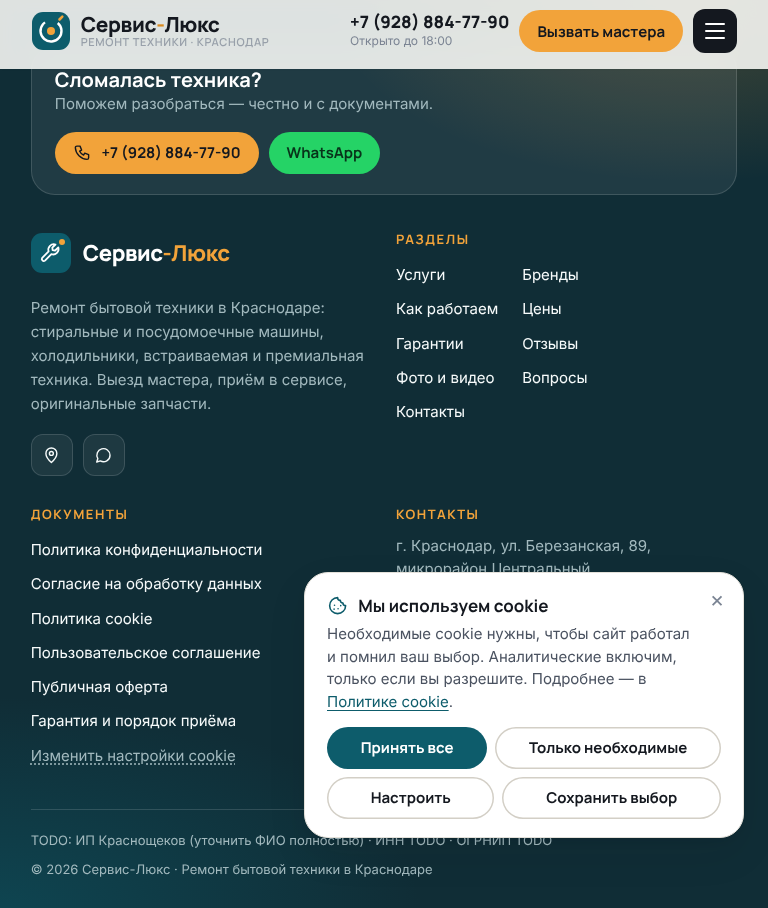
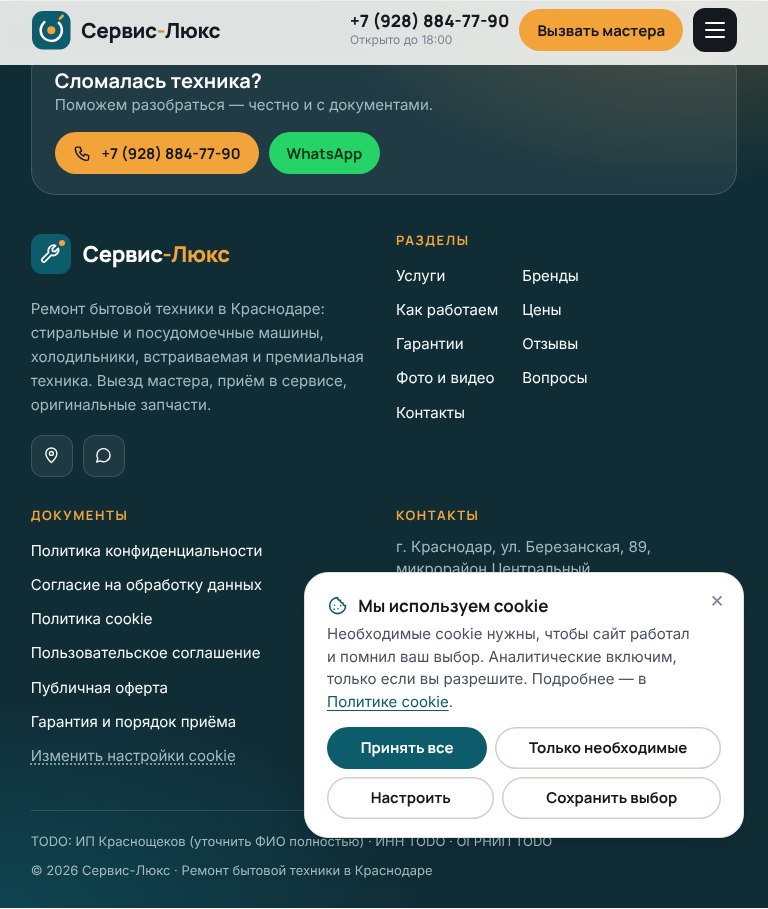
Промежуточное состояние секций в работе
Claude-Session: https://claude.ai/code/session_01MjrRxoxtDoTSH5vWoqp8Aa

diff --git a/index.html b/index.html
@@ -1154,6 +1154,198 @@
   </div>
 </section>
 
+<!-- ===== 22 · Наши обязательства (#guarantees) · владелец: Ипполит ===== -->
+<section class="section guar" id="guarantees" aria-labelledby="guar-title">
+  <div class="container">
+    <header class="section__head section__head--center guar__head reveal">
+      <span class="eyebrow">Наши обязательства</span>
+      <h2 id="guar-title">Семь обещаний, которые можно проверить</h2>
+      <p class="lead">Не&nbsp;«качество и&nbsp;надёжность», а&nbsp;конкретные действия на&nbsp;каждом этапе. Если что-то из&nbsp;этого не&nbsp;выполнено, напишите нам в&nbsp;WhatsApp, и&nbsp;мы разберёмся.</p>
+    </header>
+
+    <ol class="guar__list">
+      <li class="guar__item reveal">
+        <span class="guar__num" aria-hidden="true">01</span>
+        <span class="guar__ico"><svg class="icon" aria-hidden="true"><use href="#sl-i-calendar"/></svg></span>
+        <h3>Срок ремонта — в&nbsp;акте</h3>
+        <p>Ориентировочный срок пишем в&nbsp;акте приёма. Если он меняется, сообщаем причину и&nbsp;новую дату до&nbsp;того, как вы спросите.</p>
+      </li>
+      <li class="guar__item reveal" style="--d:.05s">
+        <span class="guar__num" aria-hidden="true">02</span>
+        <span class="guar__ico"><svg class="icon" aria-hidden="true"><use href="#sl-i-bell"/></svg></span>
+        <h3>Статус в&nbsp;WhatsApp на&nbsp;каждом этапе</h3>
+        <p>Принято, диагностика готова, запчасть заказана, готово к&nbsp;выдаче. Не&nbsp;нужно звонить и&nbsp;уточнять.</p>
+      </li>
+      <li class="guar__item reveal" style="--d:.1s">
+        <span class="guar__num" aria-hidden="true">03</span>
+        <span class="guar__ico"><svg class="icon" aria-hidden="true"><use href="#sl-i-clock"/></svg></span>
+        <h3>Ответ менеджера в&nbsp;течение N&nbsp;часов</h3>
+        <!-- TODO: подтвердить с владельцем норматив ответа менеджера (N часов в рабочее время) -->
+        <p>В&nbsp;рабочее время: Пн–Пт 9–18, Сб 10–16. Сообщение, пришедшее вечером, разбираем первым утром.</p>
+      </li>
+      <li class="guar__item reveal" style="--d:.15s">
+        <span class="guar__num" aria-hidden="true">04</span>
+        <span class="guar__ico"><svg class="icon" aria-hidden="true"><use href="#sl-i-smile"/></svg></span>
+        <h3>Вежливо и&nbsp;без внезапных отмен</h3>
+        <!-- TODO: подтвердить регламент общения и правило «не отменяем заявку без письменного предупреждения» -->
+        <p>Не&nbsp;дозвонились — напишем в&nbsp;WhatsApp, а&nbsp;не&nbsp;аннулируем заявку. Перенос только по&nbsp;согласованию с&nbsp;вами.</p>
+      </li>
+      <li class="guar__item reveal" style="--d:.2s">
+        <span class="guar__num" aria-hidden="true">05</span>
+        <span class="guar__ico"><svg class="icon" aria-hidden="true"><use href="#sl-i-camera"/></svg></span>
+        <h3>Фото и&nbsp;видео при&nbsp;приёме</h3>
+        <p>Фиксируем внешний вид, комплектацию и&nbsp;повреждения до&nbsp;ремонта. Копия у&nbsp;вас в&nbsp;переписке.</p>
+      </li>
+      <li class="guar__item reveal" style="--d:.25s">
+        <span class="guar__num" aria-hidden="true">06</span>
+        <span class="guar__ico"><svg class="icon" aria-hidden="true"><use href="#sl-i-ruble"/></svg></span>
+        <h3>Смета до&nbsp;начала работ</h3>
+        <p>Работа и&nbsp;каждая запчасть с&nbsp;артикулом отдельной строкой. Без&nbsp;вашего «ОК» не&nbsp;начинаем и&nbsp;сумму не&nbsp;меняем.</p>
+      </li>
+      <li class="guar__item reveal" style="--d:.3s">
+        <span class="guar__num" aria-hidden="true">07</span>
+        <span class="guar__ico"><svg class="icon" aria-hidden="true"><use href="#sl-i-receipt"/></svg></span>
+        <h3>Документы на&nbsp;руки</h3>
+        <p>Акт приёма, акт выполненных работ, кассовый чек и&nbsp;гарантийный талон. Всё, что нужно, если понадобится гарантия.</p>
+      </li>
+      <li class="guar__item guar__item--warranty reveal" style="--d:.35s">
+        <span class="guar__ico"><svg class="icon" aria-hidden="true"><use href="#sl-i-shield"/></svg></span>
+        <h3>Гарантия на&nbsp;ремонт и&nbsp;запчасти</h3>
+        <!-- TODO: подтвердить сроки гарантии на работу и на установленные запчасти -->
+        <p class="guar__warranty-terms"><span><b>N&nbsp;мес.</b> на&nbsp;работу</span><span><b>N&nbsp;мес.</b> на&nbsp;запчасти</span></p>
+        <a class="guar__link" href="legal/warranty.html">Условия гарантии и&nbsp;приёма<svg class="icon" aria-hidden="true"><use href="#sl-i-arrow"/></svg></a>
+      </li>
+    </ol>
+
+    <!-- Гарантийный ремонт по гарантии производителя -->
+    <div class="guar__factory reveal">
+      <div class="guar__factory-ico"><svg class="icon" aria-hidden="true"><use href="#sl-i-doc"/></svg></div>
+      <div>
+        <h3>Ремонт по&nbsp;гарантии производителя: честно о&nbsp;сроках</h3>
+        <!-- TODO: сверить формулировку с юристом (Феофан) и подтвердить периодичность статусов по гарантийным ремонтам -->
+        <p>Самое долгое в&nbsp;гарантийном ремонте — поставка детали от&nbsp;производителя. Поэтому срок поставки сообщаем письменно сразу после диагностики, а&nbsp;пока деталь в&nbsp;пути, присылаем статус. По&nbsp;закону «О&nbsp;защите прав потребителей» (ст.&nbsp;20) срок устранения недостатков по&nbsp;гарантии не&nbsp;может превышать 45&nbsp;дней. Если он под угрозой, заранее предупреждаем и&nbsp;объясняем ваши права и&nbsp;варианты.</p>
+      </div>
+    </div>
+
+    <!-- Мы слышим отзывы -->
+    <div class="guar__heard">
+      <div class="guar__heard-head reveal">
+        <span class="eyebrow">Мы слышим отзывы</span>
+        <h3>Что нам писали и&nbsp;что мы делаем</h3>
+        <p>Мы читаем все отзывы на&nbsp;Яндекс Картах, и&nbsp;хорошие, и&nbsp;плохие. Из&nbsp;критики выросли правила, которые выше.</p>
+      </div>
+      <table class="guar__table guar__table--heard reveal">
+        <caption class="sr-only">Частые претензии в отзывах и что мы делаем</caption>
+        <thead><tr><th scope="col">Частая претензия</th><th scope="col">Что мы делаем</th></tr></thead>
+        <tbody>
+          <tr>
+            <th scope="row" data-label="Претензия">«Заплатили за&nbsp;диагностику, а&nbsp;ремонта не&nbsp;было»</th>
+            <td data-label="Что делаем">Цену диагностики называем до&nbsp;выезда. При&nbsp;согласованном ремонте засчитываем её в&nbsp;стоимость, а&nbsp;при&nbsp;отказе у&nbsp;вас остаются причина поломки и&nbsp;смета.</td>
+          </tr>
+          <tr>
+            <th scope="row" data-label="Претензия">«Неделями никто не&nbsp;звонил»</th>
+            <td data-label="Что делаем">Статус в&nbsp;WhatsApp на&nbsp;каждом этапе. Если запчасть задерживается, пишем первыми и&nbsp;сразу называем новый срок.</td>
+          </tr>
+          <tr>
+            <th scope="row" data-label="Претензия">«Гарантийный ремонт затянулся»</th>
+            <td data-label="Что делаем">Срок поставки детали — письменно, статусы — пока ждём. Держим срок в&nbsp;рамках закона и&nbsp;предупреждаем заранее, если он под&nbsp;угрозой.</td>
+          </tr>
+          <tr>
+            <th scope="row" data-label="Претензия">«Отменили заявку из-за&nbsp;пропущенного звонка»</th>
+            <td data-label="Что делаем">Время визита подтверждаем в&nbsp;WhatsApp. Не&nbsp;дозвонились — пишем сообщение, а&nbsp;не&nbsp;отменяем выезд.</td>
+          </tr>
+          <tr>
+            <th scope="row" data-label="Претензия">«Запчасть дороже, чем на&nbsp;маркетплейсе»</th>
+            <td data-label="Что делаем">В&nbsp;смете есть артикул каждой детали, и&nbsp;цену можно проверить до&nbsp;заказа. Неисправность мастер показывает до&nbsp;замены.</td>
+          </tr>
+          <tr>
+            <th scope="row" data-label="Претензия">«Сказали, что техника была грязной или повреждённой»</th>
+            <td data-label="Что делаем">Фото и&nbsp;видео при&nbsp;приёме и&nbsp;акт с&nbsp;описанием состояния. Копии у&nbsp;вас, поэтому спорить не&nbsp;о&nbsp;чем.</td>
+          </tr>
+        </tbody>
+      </table>
+    </div>
+
+    <!-- Сравнение -->
+    <div class="guar__compare">
+      <div class="guar__heard-head reveal">
+        <span class="eyebrow">Сравнение</span>
+        <h3>Сервис или частный мастер по&nbsp;объявлению</h3>
+        <p>Среди частных мастеров есть сильные специалисты. Разница не&nbsp;в&nbsp;людях, а&nbsp;в&nbsp;том, что остаётся у&nbsp;вас на&nbsp;руках, если что-то пойдёт не&nbsp;так.</p>
+      </div>
+      <div class="guar__compare-wrap reveal">
+        <table class="guar__table guar__table--compare">
+          <caption class="sr-only">Сравнение: Сервис-Люкс и частный мастер по объявлению</caption>
+          <thead>
+            <tr><th scope="col"><span class="sr-only">Критерий</span></th><th scope="col" class="guar__col-us">Сервис-Люкс</th><th scope="col">Частный мастер</th></tr>
+          </thead>
+          <tbody>
+            <tr>
+              <th scope="row">Премиум и&nbsp;встраиваемая техника</th>
+              <td class="guar__col-us" data-label="Сервис-Люкс"><svg class="icon guar__yes" aria-hidden="true"><use href="#sl-i-check"/></svg>Miele, Liebherr, V-Zug, Smeg, Bosch и&nbsp;другие; можно привезти в&nbsp;сервис</td>
+              <td data-label="Частный мастер">Зависит от&nbsp;опыта конкретного мастера</td>
+            </tr>
+            <tr>
+              <th scope="row">Гарантия</th>
+              <!-- TODO: срок гарантии -->
+              <td class="guar__col-us" data-label="Сервис-Люкс"><svg class="icon guar__yes" aria-hidden="true"><use href="#sl-i-check"/></svg>Гарантийный талон на&nbsp;работу и&nbsp;запчасти</td>
+              <td data-label="Частный мастер">Часто устная договорённость</td>
+            </tr>
+            <tr>
+              <th scope="row">Документы</th>
+              <td class="guar__col-us" data-label="Сервис-Люкс"><svg class="icon guar__yes" aria-hidden="true"><use href="#sl-i-check"/></svg>Акт приёма, смета, акт работ, кассовый чек</td>
+              <td data-label="Частный мастер">Не&nbsp;всегда</td>
+            </tr>
+            <tr>
+              <th scope="row">Запчасти</th>
+              <td class="guar__col-us" data-label="Сервис-Люкс"><svg class="icon guar__yes" aria-hidden="true"><use href="#sl-i-check"/></svg>Оригинал под заказ, артикул в&nbsp;смете</td>
+              <td data-label="Частный мастер">Оригинал или аналог — стоит уточнять</td>
+            </tr>
+            <tr>
+              <th scope="row">Состояние техники при&nbsp;приёме</th>
+              <td class="guar__col-us" data-label="Сервис-Люкс"><svg class="icon guar__yes" aria-hidden="true"><use href="#sl-i-check"/></svg>Фото, видео и&nbsp;акт</td>
+              <td data-label="Частный мастер">Как договоритесь</td>
+            </tr>
+            <tr>
+              <th scope="row">Если что-то пошло не&nbsp;так</th>
+              <td class="guar__col-us" data-label="Сервис-Люкс"><svg class="icon guar__yes" aria-hidden="true"><use href="#sl-i-check"/></svg>Адрес сервиса, документы и&nbsp;публичные отзывы</td>
+              <td data-label="Частный мастер">Личный телефон мастера</td>
+            </tr>
+            <tr>
+              <th scope="row">Цена</th>
+              <td class="guar__col-us" data-label="Сервис-Люкс">Может быть выше: в&nbsp;неё входят гарантия, документы и&nbsp;оригинальные детали</td>
+              <td data-label="Частный мастер">Часто ниже</td>
+            </tr>
+          </tbody>
+        </table>
+      </div>
+      <blockquote class="guar__quote reveal">
+        <p>«В&nbsp;Сервис-Люкс работают очень опытные мастера. Устанавливают и&nbsp;ремонтируют любую премиальную технику: Miele, Liebherr, V-Zug, Smeg».</p>
+        <footer>Мария&nbsp;Л., отзыв на&nbsp;<a href="https://yandex.ru/maps/org/servis_lyuks/1041626760/reviews/" target="_blank" rel="noopener">Яндекс Картах</a>, 5★</footer>
+      </blockquote>
+    </div>
+
+    <!-- Финальный CTA -->
+    <div class="guar__cta reveal">
+      <div class="guar__cta-text">
+        <h3>Расскажите, что сломалось. Цену диагностики назовём до&nbsp;визита</h3>
+        <p>Время подтвердим в&nbsp;WhatsApp, состояние техники зафиксируем, ремонт начнём только после вашего «ОК».</p>
+        <ul class="guar__cta-points">
+          <li><svg class="icon" aria-hidden="true"><use href="#sl-i-check"/></svg>Смета до&nbsp;работ</li>
+          <li><svg class="icon" aria-hidden="true"><use href="#sl-i-check"/></svg>Статусы в&nbsp;WhatsApp</li>
+          <li><svg class="icon" aria-hidden="true"><use href="#sl-i-check"/></svg>Акт, чек и&nbsp;гарантия</li>
+        </ul>
+      </div>
+      <div class="guar__cta-actions">
+        <button class="btn btn--accent btn--block" type="button" data-modal-open="lead-modal">Вызвать мастера</button>
+        <a class="btn btn--wa btn--block" href="https://wa.me/79180606918?text=%D0%9E%D0%B1%D1%80%D0%B0%D1%89%D0%B5%D0%BD%D0%B8%D0%B5%20%D1%81%20%D1%81%D0%B0%D0%B9%D1%82%D0%B0%0A%D0%97%D0%B4%D1%80%D0%B0%D0%B2%D1%81%D1%82%D0%B2%D1%83%D0%B9%D1%82%D0%B5!%20%D0%9C%D0%B5%D0%BD%D1%8F%20%D0%B7%D0%B0%D0%B8%D0%BD%D1%82%D0%B5%D1%80%D0%B5%D1%81%D0%BE%D0%B2%D0%B0%D0%BB%D0%BE%20%D0%B2%D0%B0%D1%88%D0%B5%20%D0%BF%D1%80%D0%B5%D0%B4%D0%BB%D0%BE%D0%B6%D0%B5%D0%BD%D0%B8%D0%B5" target="_blank" rel="noopener"><svg class="icon" aria-hidden="true"><use href="#sl-i-wa"/></svg>Написать в&nbsp;WhatsApp</a>
+        <a class="guar__cta-phone" href="tel:+79288847790"><svg class="icon" aria-hidden="true"><use href="#sl-i-phone"/></svg>+7 (928) 884-77-90</a>
+        <p class="guar__cta-hours">Пн–Пт 9–18, Сб 10–16</p>
+      </div>
+    </div>
+  </div>
+</section>
+
 <section class="section section--soft reviews" id="reviews" aria-labelledby="reviews-title">
   <div class="container">
 

diff --git a/css/sections/01-header.css b/css/sections/01-header.css
@@ -43,7 +43,7 @@
 
 /* Основная строка */
 .hdr__main { display: flex; align-items: center; gap: 16px; min-height: 64px; transition: min-height .3s var(--ease); }
-.hdr__logo { display: inline-flex; align-items: center; gap: 10px; text-decoration: none; color: var(--ink); margin-right: auto; min-width: 0; }
+.hdr__logo { flex: none; display: inline-flex; align-items: center; gap: 10px; text-decoration: none; color: var(--ink); margin-right: auto; min-width: 0; }
 .hdr__mark { width: 38px; height: 38px; color: var(--brand); flex: none; transition: width .3s var(--ease), height .3s var(--ease), transform .4s var(--ease); }
 .hdr__logo:hover .hdr__mark { transform: rotate(-12deg); }
 .hdr__word { display: grid; line-height: 1.05; }
@@ -93,6 +93,7 @@
 .hdr.is-scrolled .hdr__main { min-height: 60px; }
 .hdr.is-scrolled .hdr__mark { width: 32px; height: 32px; }
 
+@media (max-width: 479px) { .hdr__tag { display: none; } .hdr__name { font-size: 1.2rem; } }
 @media (min-width: 560px) {
   .hdr__addr { display: inline-flex; }
 }
@@ -115,14 +116,17 @@
   .hdr__nav { position: static; z-index: auto; padding: 0; background: none; overflow: visible; opacity: 1; visibility: visible; transform: none; flex-direction: row; transition: none; }
   .hdr__panel-foot { display: none; }
   .hdr__menu { display: flex; gap: 2px; }
-  .hdr__menu a { position: relative; border: 0; padding: 8px 10px; font: 600 var(--fs-sm)/1 var(--font-head); color: var(--ink-2); border-radius: var(--r-pill); }
+  .hdr__menu a { position: relative; border: 0; padding: 8px 9px; white-space: nowrap; font: 600 var(--fs-sm)/1 var(--font-head); color: var(--ink-2); border-radius: var(--r-pill); }
   .hdr__menu a::after { content: ""; position: absolute; left: 10px; right: 10px; bottom: 2px; height: 2px; border-radius: 2px; background: var(--accent); transform: scaleX(0); transform-origin: left; transition: transform .25s var(--ease); }
   .hdr__menu a:hover { color: var(--ink); }
   .hdr__menu a:hover::after, .hdr__menu a[aria-current="true"]::after { transform: scaleX(1); }
   .hdr__menu a[aria-current="true"] { color: var(--brand); }
-  .hdr__main { gap: 20px; }
+  .hdr__main { gap: 16px; }
+  .hdr__logo { margin-right: 0; }
+  .hdr__nav { margin-inline: auto; }
   .hdr__phone-ic { display: none; }
 }
+@media (min-width: 1240px) and (max-width: 1439px) { .hdr__tag { display: none; } .hdr__phone-sub { display: none; } }
 @media (min-width: 1440px) {
   .hdr__menu { gap: 6px; }
   .hdr__phone-ic { display: grid; }

diff --git a/css/cookie.css b/css/cookie.css
@@ -107,6 +107,7 @@ mark.todo {
   padding: 18px 18px 16px; border-radius: var(--r-lg);
   background: var(--surface); border: 1px solid var(--line); box-shadow: var(--shadow-2);
   color: var(--ink-2); font-size: var(--fs-sm); line-height: 1.5;
+  overscroll-behavior: contain;
   animation: cookie-in .35s var(--ease) both;
 }
 .cookie[hidden] { display: none; }
@@ -117,8 +118,11 @@ mark.todo {
 .cookie__title { display: flex; align-items: center; gap: 10px; margin: 0 0 6px; font: 700 var(--fs-md)/1.3 var(--font-head); color: var(--ink); }
 .cookie__title .icon { color: var(--brand); }
 .cookie__text { margin: 0 0 14px; }
-.cookie__actions { display: flex; flex-wrap: wrap; gap: 8px; }
-.cookie__actions .btn { flex: 1 1 auto; white-space: normal; text-align: center; line-height: 1.2; }
+@media (max-width: 380px) { .cookie { padding: 14px 14px 12px; font-size: var(--fs-xs); } .cookie__text { margin-bottom: 10px; } .cookie__actions .btn { min-height: 40px; } }
+.cookie__actions { display: grid; grid-template-columns: repeat(2, minmax(0, 1fr)); gap: 8px; }
+.cookie__actions .btn { min-width: 0; padding-inline: 12px; white-space: normal; text-align: center; line-height: 1.2; }
+.cookie__actions .btn:first-child { grid-column: 1 / -1; }
+.cookie__actions .btn[hidden] { display: none; } /* .btn задаёт display — [hidden] нужно вернуть явно */
 .cookie__prefs { display: grid; gap: 10px; margin: 4px 0 14px; }
 .cookie__prefs[hidden] { display: none; }
 .cookie__opt { display: grid; grid-template-columns: 22px minmax(0, 1fr); gap: 10px; padding: 12px; border-radius: var(--r-md); background: var(--bg-soft); cursor: pointer; }

diff --git a/js/analytics.js b/js/analytics.js
@@ -4,6 +4,7 @@
 // API: window.track('goal_name', {param: 'value'}) — можно звать из любого скрипта, в любой момент.
 //      <a data-goal="price_pdf">…</a> — произвольная цель по клику без JS.
 (() => {
+  if (window.track && window.track.__sl) return; // защита от двойного подключения
   const counterId = () => Number((window.SITE && window.SITE.yandexMetrikaId) || 0);
   const sentOnce = new Set();
 
@@ -17,6 +18,7 @@
   };
   // цели «один раз за визит страницы» (глубина скролла, просмотр секций)
   const trackOnce = (goal, params) => { if (sentOnce.has(goal)) return; if (track(goal, params)) sentOnce.add(goal); };
+  track.__sl = true;
   window.track = track;
 
   // --- клики (делегирование, capture — чтобы сработать раньше чужих обработчиков) ---
